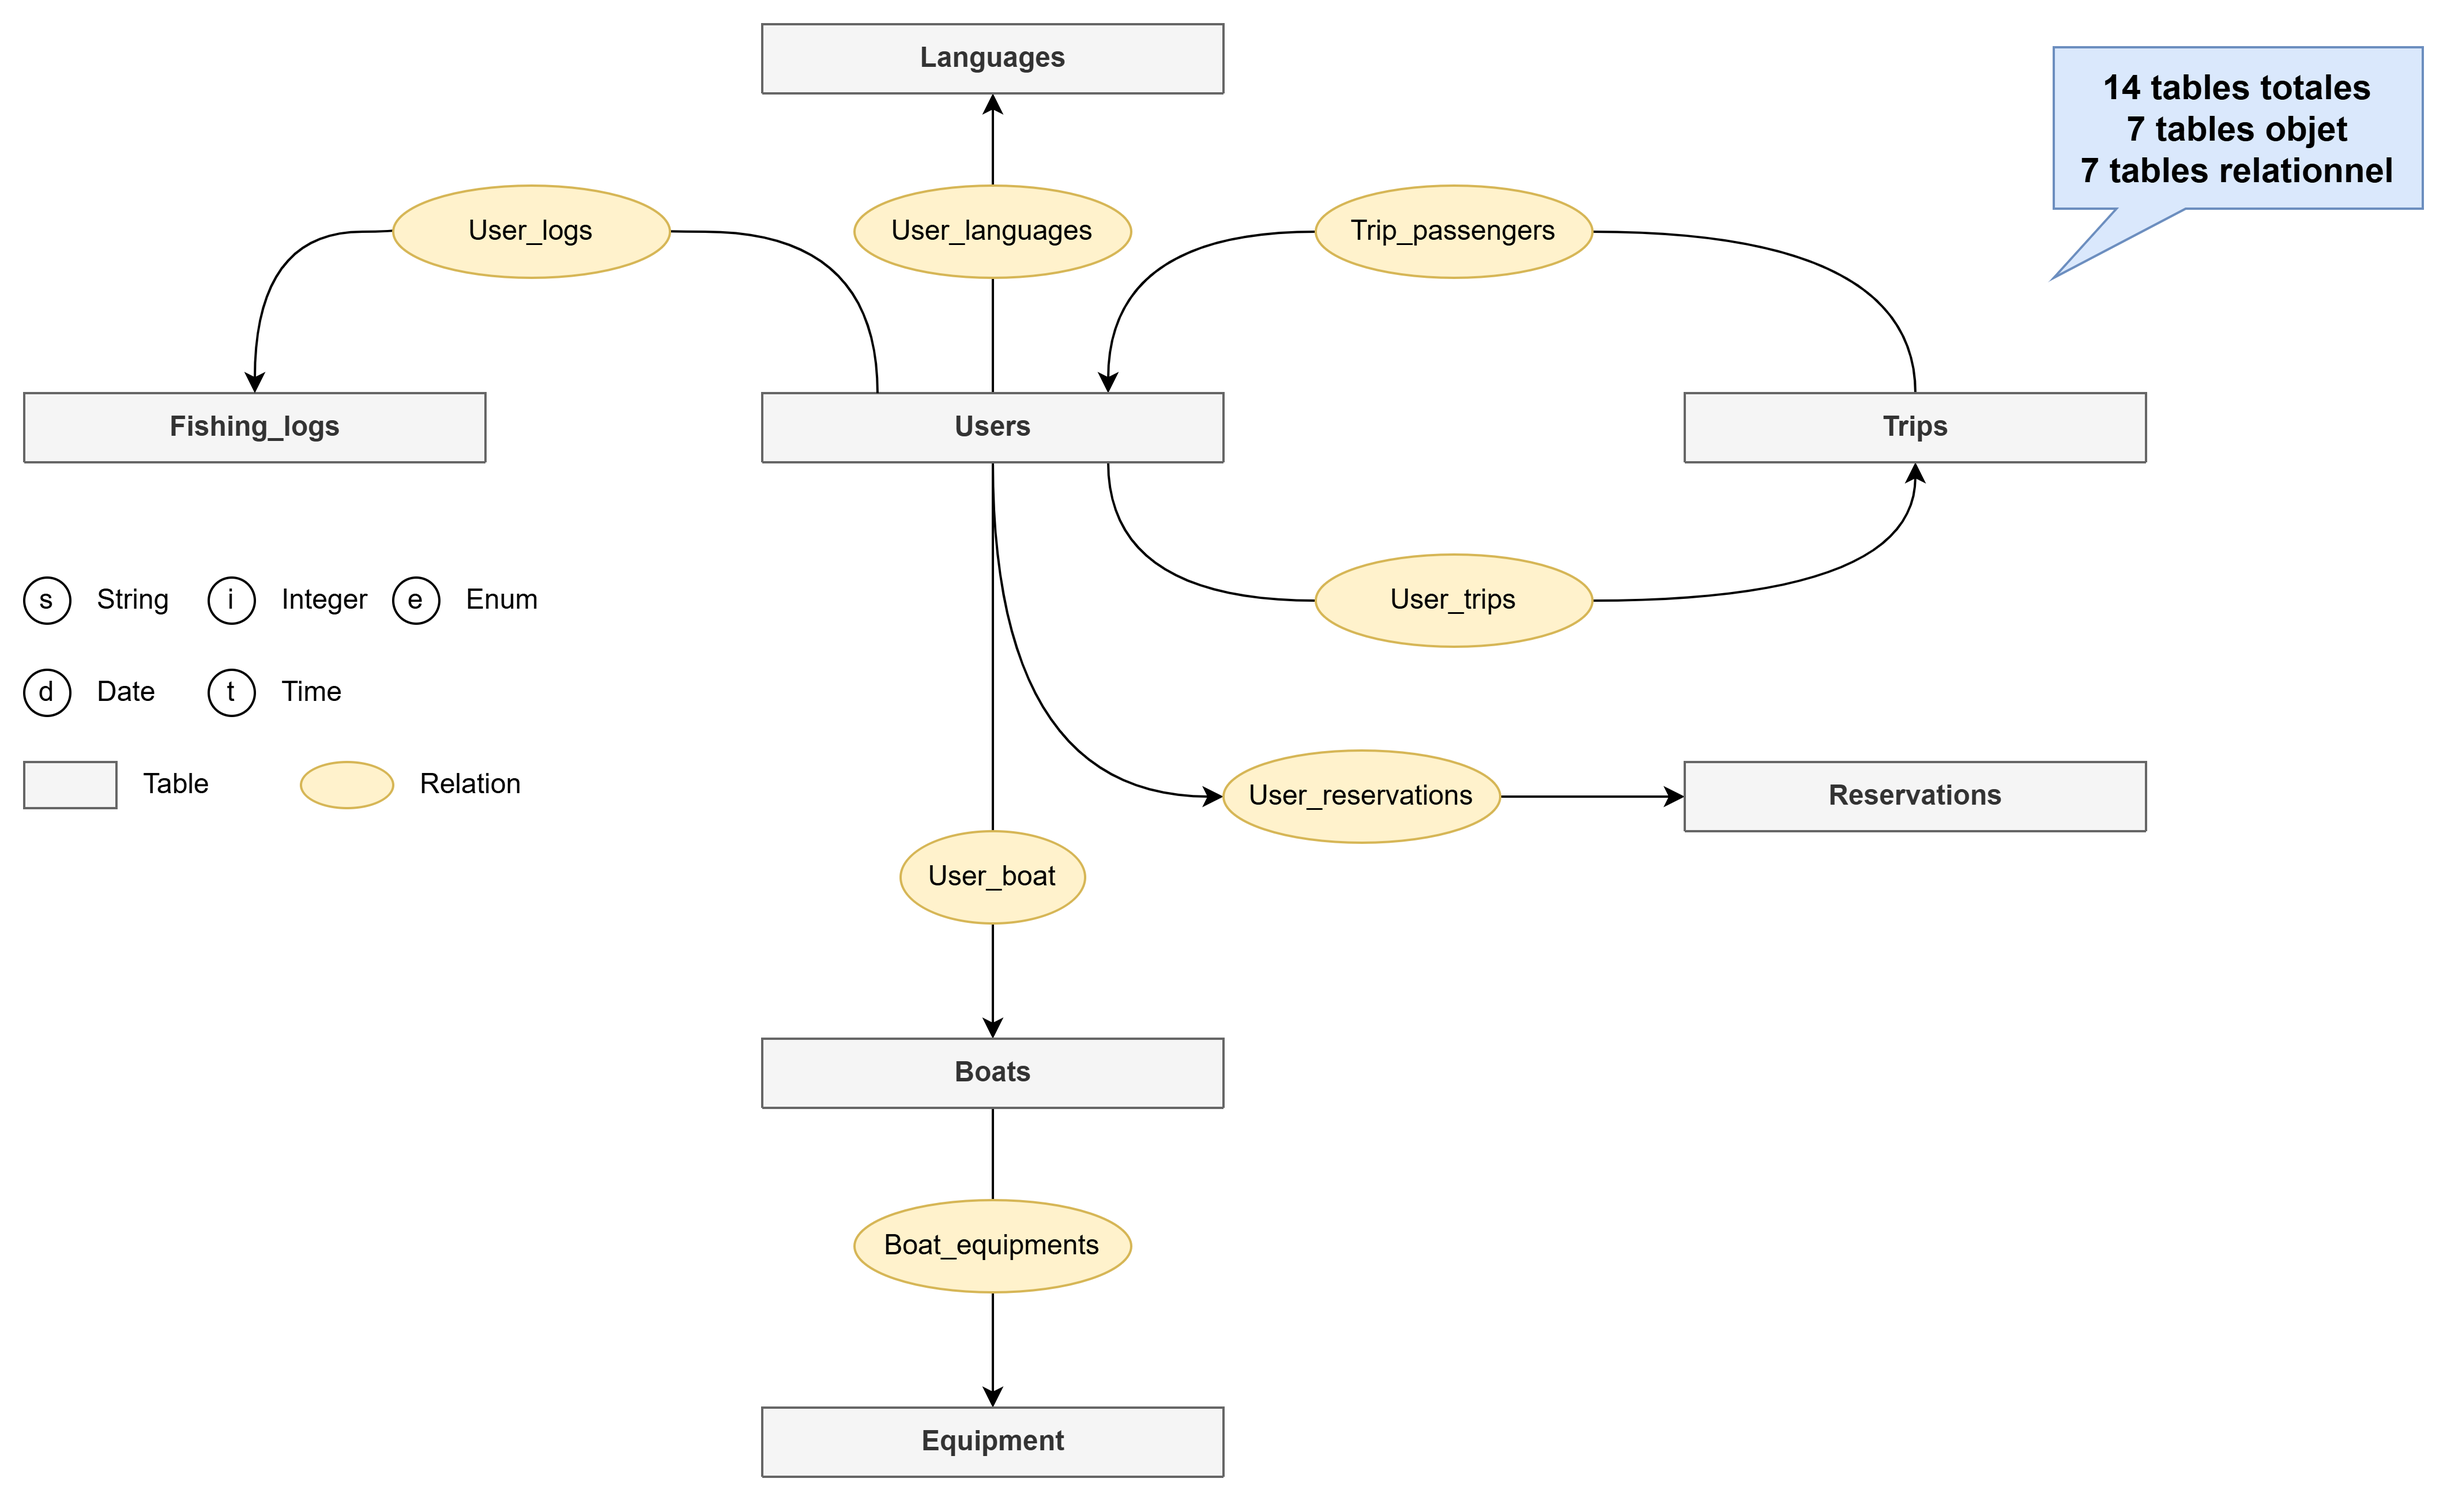
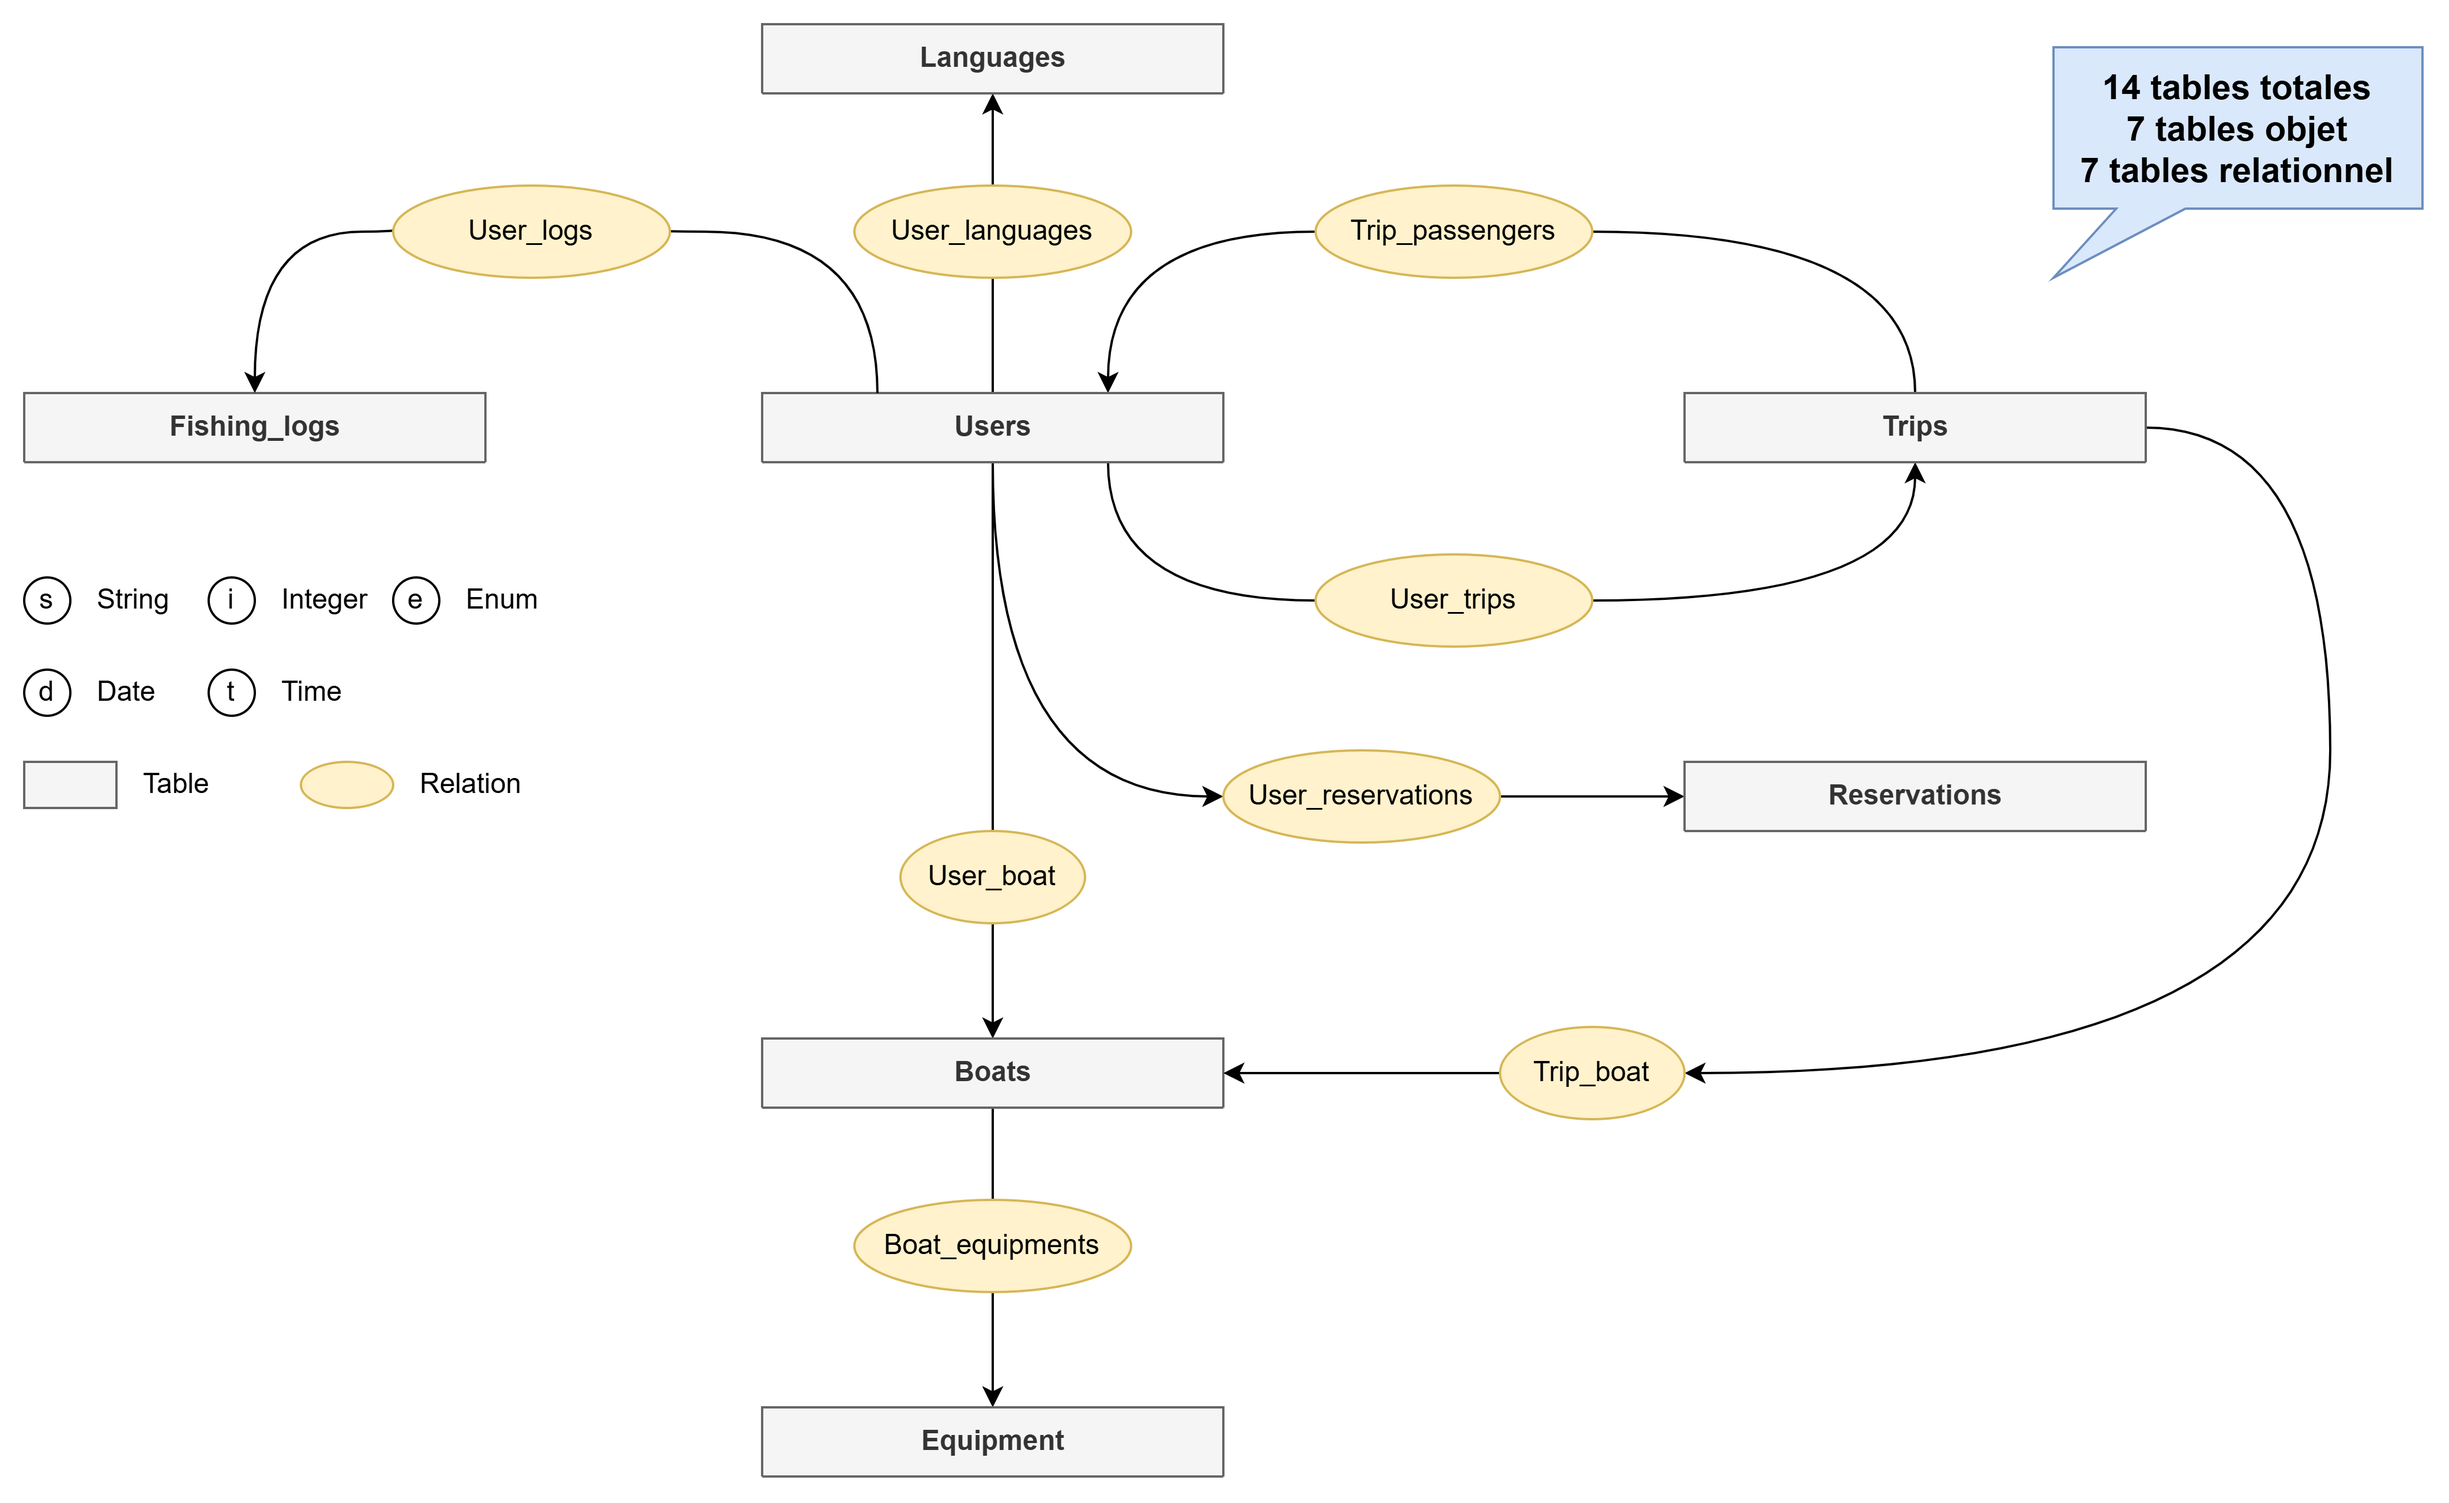
getAll trips + fix sql scripts + add errors on trip and boat

diff --git a/v1/controllers/fishingTripsController.js b/v1/controllers/fishingTripsController.js
@@ -1,4 +1,5 @@
 const FishingTrip = require('../models/fishingTripModel');
+const AppError = require('../../utils/appError');
 
 exports.createTrip = async (req, res) => {
     try {
@@ -6,54 +7,58 @@ exports.createTrip = async (req, res) => {
         res.status(201).json(newTrip);
     } catch (err) {
         console.error(err);
-        res.status(500).send('Erreur lors de la création de la sortie de pêche');
+        if (err instanceof AppError) res.status(err.statusCode).send(err.message);
+        else res.status(500).send('Erreur lors de la création de la sortie de pêche');
     }
 };
 
 exports.updateTrip = async (req, res) => {
     try {
         const updatedTrip = await FishingTrip.updateTrip(req.params.id, req.body);
-        res.json(updatedTrip);
+        res.status(200).json(updatedTrip);
     } catch (err) {
         console.error(err);
-        res.status(500).send('Erreur lors de la mise à jour de la sortie de pêche');
+        if (err instanceof AppError) res.status(err.statusCode).send(err.message);
+        else res.status(500).send('Erreur lors de la mise à jour de la sortie de pêche');
     }
 };
 
 exports.deleteTrip = async (req, res) => {
     try {
-        const deletedTrip = await FishingTrip.deleteTrip(req.params.id);
-        if (deletedTrip) {
-            res.status(204).send();
-        } else {
-            res.status(404).send('Sortie de pêche non trouvée');
-        }
+        await FishingTrip.deleteTrip(req.params.id);
+        res.status(204).send("Sortie de pêche supprimée avec succès");
     } catch (err) {
         console.error(err);
-        res.status(500).send('Erreur lors de la suppression de la sortie de pêche');
+        if (err instanceof AppError) res.status(err.statusCode).send(err.message);
+        else res.status(500).send('Erreur lors de la suppression de la sortie de pêche');
     }
 };
 
 exports.getTrip = async (req, res) => {
     try {
         const trip = await FishingTrip.getTrip(req.params.id);
-        if (!trip) {
-            res.status(404).send('Sortie de pêche non trouvée');
-        } else {
-            res.json(trip);
-        }
+        res.status(200).json(trip);
     } catch (err) {
         console.error(err);
-        res.status(500).send('Erreur lors de la récupération de la sortie de pêche');
+        if (err instanceof AppError) res.status(err.statusCode).send(err.message);
+        else res.status(500).send('Erreur lors de la récupération de la sortie de pêche');
     }
 };
 
 exports.getAllTrips = async (req, res) => {
     try {
-        const trips = await FishingTrip.getAllTrips();
-        res.json(trips);
+        // get query params
+        const {date, organizerId, boatId} = req.query;
+        const filters = {date, organizerId, boatId};
+
+        // remove undefined keys
+        Object.keys(filters).forEach(key => filters[key] === undefined && delete filters[key]);
+
+        const trips = await FishingTrip.getAllTrips(filters);
+        res.status(200).json(trips);
     } catch (err) {
         console.error(err);
-        res.status(500).send('Erreur lors de la récupération des sorties de pêche');
+        if (err instanceof AppError) res.status(err.statusCode).send(err.message);
+        else res.status(500).send('Erreur lors de la récupération des sorties de pêche');
     }
 };

diff --git a/v1/models/fishingTripModel.js b/v1/models/fishingTripModel.js
@@ -1,4 +1,5 @@
 const pool = require('../../dbConfig');
+const AppError = require('../../utils/appError');
 
 const FishingTrip = {
     createTrip: async (data) => {
@@ -31,9 +32,76 @@ const FishingTrip = {
         return result.rows[0];
     },
 
-    getAllTrips: async () => {
-        const result = await pool.query('SELECT * FROM trips');
+    getAllTrips: async (filters) => {
+        // if organizerId provided, check if exists
+        if (filters.organizerId) {
+            const result = await pool.query('SELECT * FROM users WHERE id = $1', [filters.organizerId]);
+            if (result.rowCount === 0) {
+                throw new AppError('Organisateur ou Bateau non trouvé', 404);
+            }
+        }
+
+        // if boatId provided, check if exists
+        if (filters.boatId) {
+            const result = await pool.query('SELECT * FROM boats WHERE id = $1', [filters.boatId]);
+            if (result.rowCount === 0) {
+                throw new AppError('Organisateur ou Bateau non trouvé', 404);
+            }
+        }
+
+        // base query
+        let query = `
+            SELECT DISTINCT t.*
+            FROM trips t
+            LEFT JOIN trip_boat tb ON t.id = tb.trip_id
+            LEFT JOIN user_trips ut ON t.id = ut.trip_id
+            WHERE 1=1
+        `;
+        const values = [];
+        let parameterIndex = 1;
+
+        if (filters.date) {
+            query += ` AND DATE(t.date) = DATE($${parameterIndex})`;
+            values.push(filters.date);
+            parameterIndex++;
+        }
+        if (filters.organizerId) {
+            query += ` AND ut.user_id = $${parameterIndex}`;
+            values.push(filters.organizerId);
+            parameterIndex++;
+        }
+        if (filters.boatId) {
+            query += ` AND tb.boat_id = $${parameterIndex}`;
+            values.push(filters.boatId);
+            parameterIndex++;
+        }
+
+        // execute the query
+        const result = await pool.query(query, values);
+
+        // fetch the associated data
+        for (const trip of result.rows) {
+            trip.organizer = await FishingTrip.fetchTripOrganizer(trip.id);
+            trip.boat = await FishingTrip.fetchTripBoat(trip.id);
+            trip.passengers = await FishingTrip.fetchTripPassengers(trip.id);
+        }
+
         return result.rows;
+    },
+
+    fetchTripOrganizer: async (tripId) => {
+        const organizer = await pool.query('SELECT user_id FROM user_trips WHERE trip_id = $1', [tripId]);
+        return organizer.rows[0].user_id;
+    },
+
+    fetchTripBoat: async (tripId) => {
+        const boat = await pool.query('SELECT boat_id FROM trip_boat WHERE trip_id = $1', [tripId]);
+        return boat.rows[0].boat_id;
+    },
+
+    fetchTripPassengers: async (tripId) => {
+        const passengers = await pool.query('SELECT user_id FROM user_trips WHERE trip_id = $1', [tripId]);
+        return passengers.rows.map(p => p.user_id);
     }
 };
 

diff --git a/index.js b/index.js
@@ -37,9 +37,9 @@ const v1FishingLogsRoutes = require('./v1/routes/fishingLogsRoutes');
 app.use('/api/v1/auth', v1AuthRoutes);
 app.use('/api/v1/users', authenticate, v1UsersRoutes);
 app.use('/api/v1/boats', authenticate, v1BoatsRoutes);
-app.use('/api/v1/fishingTrips', authenticate, v1FishingTripsRoutes);
+app.use('/api/v1/fishing-trips', authenticate, v1FishingTripsRoutes);
 app.use('/api/v1/reservations', authenticate, v1ReservationsRoutes);
-app.use('/api/v1/fishingLogs', authenticate, v1FishingLogsRoutes);
+app.use('/api/v1/fishing-logs', authenticate, v1FishingLogsRoutes);
 
 https.createServer(credentials, app).listen(port, () => {
     console.log(`API started on the port: ${port}`);

diff --git a/v1/models/boatModel.js b/v1/models/boatModel.js
@@ -97,7 +97,7 @@ const Boat = {
         if (filters.ownerId) {
             const checkOwner = await pool.query('SELECT * FROM users WHERE id = $1', [filters.ownerId]);
             if (checkOwner.rowCount === 0) {
-                throw new Error('Ce propriétaire n\'existe pas');
+                throw new AppError('Propriétaire non trouvé', 404);
             }
         }
 
